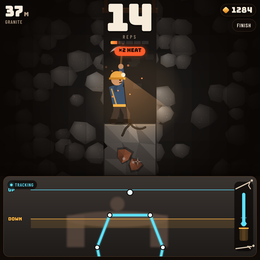
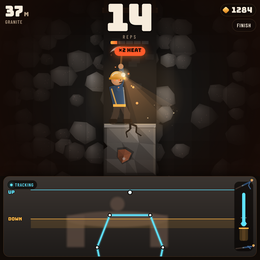
Push Mine: visual polish pass
- Miner: shaded body and helmet, a rim of lamp light, a glowing lamp, a
  silhouette outline, and a smear along the pick's swing.
- Rock: blocks get a lit top face and a chiselled bevel; cracks are straight
  jagged runs that fork, with a lit edge; walls fall into shadow beside the
  shaft; clay and topsoil walls break their grid with larger stones.
- Light and air: a feathered headlamp cone with dust drifting in it, a dark
  fade under the HUD, and a warm edge glow while the heat is up.
- Hits: spark streaks on deep hits, triangular shards thrown away from the
  miner, labels that shrink away instead of fading into mud.
- Demo figures (title, placement cards, tap pad, gauge) are drawn as the
  miner, so the demo reads as "you".
- Camera panel: near-black with a vignette and a warm inner edge, a darker
  video, a thinner skeleton whose joints pulse amber at full depth.
- Screens rise in with a stagger; the coin icon flashes a shine on pickup.

Claude-Session: https://claude.ai/code/session_01NCBcDJ7hGqfLUoT5m655jU

diff --git a/games/push_mine.html b/games/push_mine.html
@@ -37,7 +37,10 @@ body.play #hud{opacity:1}
 .hud-r{position:absolute;right:12px;top:calc(12px + var(--safeT));display:flex;flex-direction:column;align-items:flex-end;gap:8px;pointer-events:auto}
 .coins{display:flex;align-items:center;gap:6px;font-size:24px;line-height:1;padding:6px 10px 6px 8px;border-radius:99px;background:rgba(18,12,8,.66);border:1px solid var(--line)}
 .coins{transition:transform .2s cubic-bezier(.2,1.8,.4,1)} .coins.pop{transform:scale(1.12)}
-.coins i{width:16px;height:16px;border-radius:4px;transform:rotate(45deg);background:linear-gradient(135deg,#fff3c4,var(--amber) 45%,#c06d12);display:inline-block;margin-right:3px}
+.coins i::after{content:"";position:absolute;inset:-4px;background:linear-gradient(100deg,transparent 35%,rgba(255,255,255,.9) 50%,transparent 65%);transform:translateX(-120%)}
+.coins.pop i::after{animation:shine .5s ease-out}
+@keyframes shine{to{transform:translateX(120%)}}
+.coins i{position:relative;overflow:hidden;width:16px;height:16px;border-radius:4px;transform:rotate(45deg);background:linear-gradient(135deg,#fff3c4,var(--amber) 45%,#c06d12);display:inline-block;margin-right:3px}
 .btn-sm{font-size:16px;letter-spacing:.08em;padding:9px 14px;border-radius:99px;background:rgba(18,12,8,.7);border:1px solid var(--line);color:var(--ink);text-transform:uppercase;transition:transform .12s ease,background .2s}
 .btn-sm:active{transform:scale(.94)}
 .hud-c{position:absolute;left:50%;top:calc(4px + var(--safeT));transform:translateX(-50%);text-align:center;line-height:.9}
@@ -60,10 +63,13 @@ body.play #hud{opacity:1}
   border:1px solid transparent;transition:height .45s cubic-bezier(.3,1,.4,1),margin .45s,border-color .45s}
 body.play.tap #cam{height:min(22vh,220px)}
 body.play.cal #cam{height:min(25vh,280px)}
-body.play #cam{height:min(31vh,350px);margin:0 10px calc(10px + var(--safeB));border-color:#5a3f28;box-shadow:inset 0 0 0 3px #2a1d13,0 -6px 24px rgba(0,0,0,.5)}
+body.play #cam{height:min(31vh,350px);margin:0 10px calc(10px + var(--safeB));border-color:#4a3220;background:#070504;box-shadow:inset 0 0 0 3px #1a110b,inset 0 0 30px rgba(255,150,60,.08),0 -6px 24px rgba(0,0,0,.5)}
 #cam::after{content:"";position:absolute;inset:7px;pointer-events:none;border-radius:13px;background:radial-gradient(circle at 0 0,#8a6a4a 2.5px,transparent 3.5px) 0 0/100% 100% no-repeat,radial-gradient(circle at 100% 0,#8a6a4a 2.5px,transparent 3.5px) 0 0/100% 100% no-repeat,radial-gradient(circle at 0 100%,#8a6a4a 2.5px,transparent 3.5px) 0 0/100% 100% no-repeat,radial-gradient(circle at 100% 100%,#8a6a4a 2.5px,transparent 3.5px) 0 0/100% 100% no-repeat}
-#video{position:absolute;inset:0;width:100%;height:100%;object-fit:cover;transform:scaleX(-1);opacity:.48;filter:saturate(.5) contrast(1.05)}
+#video{position:absolute;inset:0;width:100%;height:100%;object-fit:cover;transform:scaleX(-1);opacity:.38;filter:saturate(.35) contrast(1.1) brightness(.85)}
 #ov{position:absolute;inset:0;width:100%;height:100%;display:block}
+#cam::before{content:"";position:absolute;inset:0;pointer-events:none;z-index:1;background:radial-gradient(ellipse at 45% 45%,transparent 55%,rgba(8,5,3,.55))}
+#cam > *{z-index:2}
+#video{z-index:0!important}
 .pill{position:absolute;left:12px;top:12px;font-size:14px;letter-spacing:.08em;text-transform:uppercase;padding:5px 10px 5px 8px;border-radius:99px;
   background:rgba(8,6,4,.72);color:var(--dim);display:flex;align-items:center;gap:7px}
 .pill::before{content:"";width:8px;height:8px;border-radius:50%;background:var(--mute)}
@@ -81,6 +87,9 @@ body.tap #coach{bottom:auto;top:30px;background:none;padding-top:8px}
 /* ---------- overlays ---------- */
 .screen{position:absolute;inset:0;display:flex;flex-direction:column;align-items:center;padding:calc(18px + var(--safeT)) 16px calc(16px + var(--safeB));
   opacity:0;visibility:hidden;transform:translateY(14px);transition:opacity .35s ease,transform .45s cubic-bezier(.3,1,.4,1),visibility 0s .45s;overflow:auto}
+.screen.on .logo,.screen.on .tag,.screen.on .card,.screen.on h2,.screen.on .big,.screen.on .sub,.screen.on .choice,.screen.on #bAgain{animation:rise .6s cubic-bezier(.2,1,.3,1) both}
+.screen.on .tag{animation-delay:.08s}.screen.on .card,.screen.on .sub{animation-delay:.16s}.screen.on .choice,.screen.on .big{animation-delay:.22s}.screen.on #bAgain{animation-delay:.5s}
+@keyframes rise{from{opacity:0;transform:translateY(18px)}to{opacity:1;transform:none}}
 .screen.on{opacity:1;visibility:visible;transform:none;transition:opacity .35s ease,transform .45s cubic-bezier(.3,1,.4,1),visibility 0s}
 #sPlace,#sSummary,#sShop{background:linear-gradient(rgba(14,9,6,.78),rgba(14,9,6,.9))}
 .wrap{width:100%;max-width:440px;display:flex;flex-direction:column;flex:1;min-height:min-content}
@@ -606,11 +615,20 @@ function drawPushup(c, x, y, L, p, col, w) {
     var ang = Math.atan2(dy, dx), k = Math.acos(Math.max(-1, Math.min(1, (a * a + dd * dd - b * b) / (2 * a * dd))));
     var E = [S[0] + Math.cos(ang + k) * a, S[1] + Math.sin(ang + k) * a];
     var dir = [bx / L, -h / L];
-    c.lineCap = 'round'; c.lineJoin = 'round'; c.strokeStyle = col; c.fillStyle = col;
-    c.lineWidth = w; c.beginPath(); c.moveTo(x, y); c.lineTo(S[0], S[1]); c.stroke();
-    c.lineWidth = w * 0.8; c.beginPath(); c.moveTo(S[0], S[1]); c.lineTo(E[0], E[1]); c.lineTo(hand[0], hand[1]); c.stroke();
+    var miner = col === 'miner';
+    c.lineCap = 'round'; c.lineJoin = 'round'; c.strokeStyle = miner ? '#3b2f28' : col; c.fillStyle = col;
+    var Hp = [x + (S[0] - x) * 0.45, y + (S[1] - y) * 0.45];
+    c.lineWidth = w; c.beginPath(); c.moveTo(x, y); c.lineTo(Hp[0], Hp[1]); c.stroke();          // legs
+    c.strokeStyle = miner ? '#2c4a6e' : col; c.lineWidth = miner ? w * 1.35 : w;
+    c.beginPath(); c.moveTo(Hp[0], Hp[1]); c.lineTo(S[0], S[1]); c.stroke();                       // torso
+    if (miner) { c.strokeStyle = '#ffb547'; c.lineWidth = w * 0.35; c.beginPath(); c.moveTo(Hp[0], Hp[1]); c.lineTo(Hp[0] + (S[0] - Hp[0]) * 0.12, Hp[1] + (S[1] - Hp[1]) * 0.12); c.stroke(); }
+    c.strokeStyle = miner ? '#3f6390' : col; c.lineWidth = w * 0.8; c.beginPath(); c.moveTo(S[0], S[1]); c.lineTo(E[0], E[1]); c.lineTo(hand[0], hand[1]); c.stroke();
     var hx = S[0] + dir[0] * L * 0.13, hy = S[1] + dir[1] * L * 0.13 - L * 0.035;
-    c.beginPath(); c.arc(hx, hy, L * 0.075, 0, 7); c.fill();
+    if (col === 'miner') {   // the same miner as in the mine, so the demo is clearly "you"
+        c.fillStyle = '#d99a6c'; c.beginPath(); c.arc(hx, hy, L * 0.072, 0, 7); c.fill();
+        c.fillStyle = '#ffb547'; c.beginPath(); c.arc(hx, hy - L * 0.01, L * 0.082, Math.PI * 1.05, Math.PI * 1.95); c.fill();
+        c.fillStyle = '#fff6d8'; c.beginPath(); c.arc(hx + L * 0.07, hy - L * 0.03, L * 0.02, 0, 7); c.fill();
+    } else { c.beginPath(); c.arc(hx, hy, L * 0.075, 0, 7); c.fill(); }
     return {S: S, head: [hx, hy]};
 }
 function drawPhone(c, x, y, w, h, rot, glow) {
@@ -657,7 +675,8 @@ function resize() {
     var o = $('ov').getBoundingClientRect(); OW = o.width; OH = o.height; ov.width = Math.round(OW * dpr); ov.height = Math.round(OH * dpr);
 }
 var view = {impact: 0, ring: -1, y: save.depth, vy: 0, raise: 0, swing: 0, strikeT: -1, from: 0, hitstop: 0, shake: 0, lean: 0, land: 0, heat: 1, glow: 0};
-var parts = [], floats = [], flyers = [], banner = null;
+var parts = [], floats = [], flyers = [], banner = null, motes = [];
+for (var mi = 0; mi < 26; mi++) motes.push({x: Math.random(), y: Math.random(), s: 0.6 + Math.random() * 1.4, v: 0.2 + Math.random() * 0.6, ph: Math.random() * 6});
 
 function geo() {
     var B = Math.round(Math.min(SW * 0.46, SH * 0.3, 300));
@@ -674,6 +693,13 @@ function drawTile(x, y, T, col, gx, gy, lit) {
     var Lst = Core.layerAt(Math.floor(gy / 3)).style;
     if (Lst && wallStyle(Lst, x, y, T, col, seed, lit)) return;
     var j = function (k) { return (H(seed, k) - 0.5) * T * 0.16; };
+    if (H(seed, 90) < 0.28) {   // a big stone overlapping into the next tile
+        var bx = x + T * (0.1 + H(seed, 91) * 0.3), by = y + T * (0.15 + H(seed, 92) * 0.3), bw = T * (1.2 + H(seed, 93) * 0.4), bh = T * (0.75 + H(seed, 94) * 0.3);
+        ctx.fillStyle = shade(col, 0.42 * lit); ctx.beginPath(); ctx.roundRect(bx - 2, by - 2, bw + 4, bh + 4, T * 0.18); ctx.fill();
+        ctx.fillStyle = shade(col, (0.6 + H(seed, 95) * 0.35) * lit); ctx.beginPath(); ctx.roundRect(bx, by, bw, bh, T * 0.16); ctx.fill();
+        ctx.fillStyle = 'rgba(255,240,220,' + 0.07 * lit + ')'; ctx.beginPath(); ctx.roundRect(bx + 2, by + 2, bw - 4, bh * 0.35, T * 0.12); ctx.fill();
+        return;
+    }
     var m = T * 0.06, base = 0.55 + H(seed, 9) * 0.38;
     ctx.fillStyle = shade(col, base * lit);
     ctx.beginPath();
@@ -767,8 +793,20 @@ function drawBlock(x, y, B, d, lit, dmgFrac, current) {
         ctx.fillStyle = shade(col, k1 * lit); ctx.beginPath(); ctx.moveTo(a[0], a[1]); ctx.lineTo(b[0], b[1]); ctx.lineTo(c2[0], c2[1]); ctx.closePath(); ctx.fill();
         ctx.fillStyle = shade(col, k2 * lit); ctx.beginPath(); ctx.moveTo(a[0], a[1]); ctx.lineTo(c2[0], c2[1]); ctx.lineTo(e[0], e[1]); ctx.closePath(); ctx.fill();
     }
-    // the top edge catches the lamp
-    ctx.fillStyle = 'rgba(255,214,150,' + (0.16 * lit) + ')'; ctx.fillRect(x + 3, y + 3, B - 6, Math.max(2, B * 0.03));
+    // a chiselled bevel: the top and lamp-side edges catch the light, the others fall into shadow
+    var bv = Math.max(3, B * 0.045);
+    ctx.fillStyle = 'rgba(255,220,165,' + (0.22 * lit) + ')';
+    ctx.beginPath(); ctx.moveTo(x + 3, y + 3); ctx.lineTo(x + B - 3, y + 3); ctx.lineTo(x + B - 3 - bv, y + 3 + bv); ctx.lineTo(x + 3 + bv, y + 3 + bv); ctx.fill();
+    ctx.fillStyle = 'rgba(255,220,165,' + (0.1 * lit) + ')';
+    ctx.beginPath(); ctx.moveTo(x + B - 3, y + 3); ctx.lineTo(x + B - 3, y + B - 3); ctx.lineTo(x + B - 3 - bv, y + B - 3 - bv); ctx.lineTo(x + B - 3 - bv, y + 3 + bv); ctx.fill();
+    ctx.fillStyle = 'rgba(0,0,0,' + (0.3 * lit) + ')';
+    ctx.beginPath(); ctx.moveTo(x + 3, y + 3); ctx.lineTo(x + 3 + bv, y + 3 + bv); ctx.lineTo(x + 3 + bv, y + B - 3 - bv); ctx.lineTo(x + 3, y + B - 3); ctx.fill();
+    ctx.beginPath(); ctx.moveTo(x + 3, y + B - 3); ctx.lineTo(x + 3 + bv, y + B - 3 - bv); ctx.lineTo(x + B - 3 - bv, y + B - 3 - bv); ctx.lineTo(x + B - 3, y + B - 3); ctx.fill();
+    // the top face the miner stands on: a lighter lip with a rim of lamp light
+    var lip = Math.max(5, B * 0.07);
+    ctx.fillStyle = shade(col, 1.18 * lit); ctx.fillRect(x + 2, y + 2, B - 4, lip);
+    ctx.fillStyle = 'rgba(255,226,170,' + 0.35 * lit + ')'; ctx.fillRect(x + 2, y + 2, B - 4, 2);
+    ctx.fillStyle = 'rgba(0,0,0,' + 0.35 * lit + ')'; ctx.fillRect(x + 2, y + 2 + lip, B - 4, 2);
     // ore
     var ores = Core.blockOres(save.seed, d);
     ores.forEach(function (o, k) {
@@ -796,17 +834,24 @@ function drawGem(x, y, r, col, lit, rot) {
 }
 function drawCracks(x, y, B, d, f) {
     ctx.save(); ctx.beginPath(); ctx.rect(x, y, B, B); ctx.clip();
-    ctx.strokeStyle = 'rgba(10,6,3,.85)'; ctx.lineCap = 'round'; ctx.lineJoin = 'round';
-    var n = Math.ceil(f * 7);
+    ctx.lineCap = 'butt'; ctx.lineJoin = 'miter';
+    var n = Math.ceil(f * 6), segs = [];
+    // straight jagged runs from where the pick lands, each kinking sharply and sometimes forking
+    var run = function (px, py, a, len, w, k, depth) {
+        var steps = 3 + Math.floor(H(d, 340 + k) * 2);
+        for (var s2 = 0; s2 < steps; s2++) {
+            var kink = (s2 % 2 ? 1 : -1) * (0.35 + H(d, 350 + k * 7 + s2) * 0.35), nx = px + Math.cos(a + kink) * len / steps, ny = py + Math.sin(a + kink) * len / steps;
+            segs.push([px, py, nx, ny, w * (1 - s2 / (steps + 1))]);
+            if (depth < 1 && H(d, 370 + k * 5 + s2) < 0.35) run(nx, ny, a + (H(d, 380 + k + s2) < 0.5 ? -0.9 : 0.9), len * 0.45, w * 0.6, k * 3 + s2 + 11, depth + 1);
+            px = nx; py = ny;
+        }
+    };
     for (var k = 0; k < n; k++) {
-        var px = x + B * (0.5 + (H(d, 300 + k) - 0.5) * 0.25), py = y + 2, a = Math.PI / 2 + (H(d, 310 + k) - 0.5) * 2.2, len = B * (0.25 + 0.55 * f) * (0.6 + H(d, 320 + k) * 0.5);
-        ctx.lineWidth = Math.max(2.5, B * 0.04 * (1 - k / 12));
-        ctx.beginPath(); ctx.moveTo(px, py);
-        var steps = 5;
-        for (var s = 1; s <= steps; s++) { a += (H(d, 330 + k * 9 + s) - 0.5) * 0.9; px += Math.cos(a) * len / steps; py += Math.sin(a) * len / steps; ctx.lineTo(px, py); }
-        ctx.stroke();
-        ctx.save(); ctx.translate(1.2, 1.6); ctx.strokeStyle = 'rgba(255,230,190,.22)'; ctx.lineWidth = Math.max(1, B * 0.008); ctx.stroke(); ctx.restore();
+        var px = x + B * (0.5 + (H(d, 300 + k) - 0.5) * 0.3), a = Math.PI / 2 + (H(d, 310 + k) - 0.5) * 2.0, len = B * (0.3 + 0.55 * f) * (0.6 + H(d, 320 + k) * 0.5);
+        run(px, y + 2, a, len, Math.max(2.5, B * 0.04), k, 0);
     }
+    segs.forEach(function (g) { ctx.strokeStyle = 'rgba(255,230,190,.28)'; ctx.lineWidth = Math.max(1, g[4] * 0.45); ctx.beginPath(); ctx.moveTo(g[0] + 1.5, g[1] + 1.5); ctx.lineTo(g[2] + 1.5, g[3] + 1.5); ctx.stroke(); });
+    segs.forEach(function (g) { ctx.strokeStyle = 'rgba(10,6,3,.9)'; ctx.lineWidth = g[4]; ctx.beginPath(); ctx.moveTo(g[0], g[1]); ctx.lineTo(g[2], g[3]); ctx.stroke(); });
     // chips knocked off the outline
     ctx.fillStyle = '#0d0907';
     var chips = Math.floor(f * 6);
@@ -830,8 +875,11 @@ function drawMiner(x, y, B, raise, lean, tier, glow, land) {
     ctx.beginPath(); ctx.moveTo(14 * u, -4 * u); ctx.lineTo(12 * u + squat * 0.5, hipY + 18 * u - squat * 0.3); ctx.lineTo(6 * u, hipY); ctx.stroke();
     ctx.fillStyle = '#1b130e'; ctx.beginPath(); ctx.roundRect(-20 * u, -8 * u, 16 * u, 8 * u, 3 * u); ctx.roundRect(6 * u, -8 * u, 18 * u, 8 * u, 3 * u); ctx.fill();
     // torso
-    ctx.fillStyle = '#2c4a6e';
-    ctx.beginPath(); ctx.moveTo(-12 * u, hipY + 2 * u); ctx.lineTo(torsoX - 13 * u, shY); ctx.quadraticCurveTo(torsoX + 1 * u, shY - 6 * u, torsoX + 15 * u, shY); ctx.lineTo(12 * u, hipY + 2 * u); ctx.closePath(); ctx.fill();
+    var tg = ctx.createLinearGradient(-14 * u, 0, 16 * u, 0);
+    tg.addColorStop(0, '#1d3350'); tg.addColorStop(0.6, '#2c4a6e'); tg.addColorStop(1, '#4a6f98');   // the lamp side catches light
+    ctx.fillStyle = tg; ctx.strokeStyle = 'rgba(8,5,3,.55)'; ctx.lineWidth = 2 * u;
+    ctx.beginPath(); ctx.moveTo(-12 * u, hipY + 2 * u); ctx.lineTo(torsoX - 13 * u, shY); ctx.quadraticCurveTo(torsoX + 1 * u, shY - 6 * u, torsoX + 15 * u, shY); ctx.lineTo(12 * u, hipY + 2 * u); ctx.closePath(); ctx.stroke(); ctx.fill();
+    ctx.strokeStyle = 'rgba(255,214,150,.35)'; ctx.lineWidth = 1.6 * u; ctx.beginPath(); ctx.moveTo(torsoX + 14 * u, shY + 1 * u); ctx.lineTo(11 * u, hipY); ctx.stroke();
     ctx.fillStyle = '#ffb547'; ctx.fillRect(-12 * u, hipY - 2 * u, 24 * u, 5 * u); // belt
     ctx.strokeStyle = 'rgba(255,181,71,.8)'; ctx.lineWidth = 2.5 * u; ctx.beginPath(); ctx.moveTo(torsoX - 8 * u, shY + 4 * u); ctx.lineTo(-6 * u, hipY - 2 * u); ctx.stroke();
     // arms + pick: shoulder pivot
@@ -843,6 +891,11 @@ function drawMiner(x, y, B, raise, lean, tier, glow, land) {
     var hand2X = handX + Math.cos(a) * 13 * u, hand2Y = handY + Math.sin(a) * 13 * u;
     ctx.strokeStyle = '#223b59'; ctx.lineWidth = 8 * u;
     ctx.beginPath(); ctx.moveTo(sx - 6 * u, sy + 2 * u); ctx.quadraticCurveTo((sx + handX) / 2 - 8 * u, (sy + handY) / 2 + 6 * u, handX, handY); ctx.stroke();
+    if (view.strikeT >= 0 && !reduce) {   // a motion smear along the arc the pick just swept
+        var a0 = -2.35 * view.from + 0.95 * (1 - view.from);
+        ctx.save(); ctx.globalAlpha = 0.28; ctx.fillStyle = 'rgba(255,230,190,.9)';
+        ctx.beginPath(); ctx.moveTo(sx, sy); ctx.arc(sx, sy, 30 * u + 46 * u, a0, a, false); ctx.closePath(); ctx.fill(); ctx.restore();
+    }
     drawPick(ctx, handX, handY, a, 46 * u, tier, glow);
     ctx.strokeStyle = '#2c4a6e'; ctx.lineWidth = 9 * u;
     ctx.beginPath(); ctx.moveTo(sx, sy); ctx.quadraticCurveTo((sx + hand2X) / 2 + 6 * u, (sy + hand2Y) / 2 + 8 * u, hand2X, hand2Y); ctx.stroke();
@@ -850,14 +903,21 @@ function drawMiner(x, y, B, raise, lean, tier, glow, land) {
     ctx.fillStyle = '#d99a6c'; ctx.beginPath(); ctx.arc(hand2X, hand2Y, 5 * u, 0, 7); ctx.fill();
     // head
     
-    ctx.fillStyle = '#d99a6c'; ctx.beginPath(); ctx.arc(hx, hy, 11 * u, 0, 7); ctx.fill();
+    var fg = ctx.createRadialGradient(hx + 4 * u, hy - 2 * u, 2 * u, hx, hy, 12 * u);
+    fg.addColorStop(0, '#f0b98c'); fg.addColorStop(1, '#b8774f');
+    ctx.fillStyle = fg; ctx.strokeStyle = 'rgba(8,5,3,.5)'; ctx.lineWidth = 2 * u; ctx.beginPath(); ctx.arc(hx, hy, 11 * u, 0, 7); ctx.stroke(); ctx.fill();
     ctx.fillStyle = '#2a1a10'; ctx.beginPath(); ctx.arc(hx + 6 * u, hy + 0.5 * u, 1.8 * u, 0, 7); ctx.fill();
     ctx.strokeStyle = '#2a1a10'; ctx.lineWidth = 1.8 * u; ctx.beginPath(); ctx.moveTo(hx + 3 * u, hy - 3.5 * u + raise * 1.2 * u); ctx.lineTo(hx + 9 * u, hy - 2.5 * u); ctx.stroke();
     ctx.beginPath(); ctx.moveTo(hx + 5 * u, hy + 6 * u); ctx.lineTo(hx + 9 * u, hy + 5.5 * u - raise * 1 * u); ctx.stroke();
     // helmet + lamp
-    ctx.fillStyle = '#ffb547'; ctx.beginPath(); ctx.arc(hx, hy - 3 * u, 13 * u, Math.PI, 0); ctx.fill();
+    var hg = ctx.createLinearGradient(0, hy - 16 * u, 0, hy - 3 * u);
+    hg.addColorStop(0, '#ffd27f'); hg.addColorStop(1, '#e8952a');
+    ctx.fillStyle = hg; ctx.strokeStyle = 'rgba(8,5,3,.5)'; ctx.lineWidth = 2 * u; ctx.beginPath(); ctx.arc(hx, hy - 3 * u, 13 * u, Math.PI, 0); ctx.stroke(); ctx.fill();
+    ctx.strokeStyle = 'rgba(255,248,225,.75)'; ctx.lineWidth = 2 * u; ctx.beginPath(); ctx.arc(hx, hy - 3 * u, 9.5 * u, Math.PI * 1.15, Math.PI * 1.55); ctx.stroke();
     ctx.fillStyle = '#d1861f'; ctx.fillRect(hx - 15 * u, hy - 4 * u, 31 * u, 4 * u);
     
+    var lg2 = ctx.createRadialGradient(lx, ly, 0, lx, ly, 14 * u); lg2.addColorStop(0, 'rgba(255,240,200,.85)'); lg2.addColorStop(1, 'rgba(255,200,120,0)');
+    ctx.fillStyle = lg2; ctx.beginPath(); ctx.arc(lx, ly, 14 * u, 0, 7); ctx.fill();
     ctx.fillStyle = '#fff6d8'; ctx.beginPath(); ctx.arc(lx, ly, 4 * u, 0, 7); ctx.fill();
     ctx.restore();
     return {lamp: [x + lx, y + ly], tip: [x + handX + Math.cos(a) * 46 * u, y + handY + Math.sin(a) * 46 * u]};
@@ -909,6 +969,10 @@ function drawScene(now, dt) {
             ctx.fillStyle = shade(col, 1.35); ctx.fillRect(0, y - 1, SW, 2);
         }
     }
+    // the walls fall into shadow where they meet the shaft
+    var ao = B * 0.22, aoL = ctx.createLinearGradient(shaftL - ao, 0, shaftL, 0), aoR = ctx.createLinearGradient(shaftR + ao, 0, shaftR, 0);
+    aoL.addColorStop(0, 'rgba(0,0,0,0)'); aoL.addColorStop(1, 'rgba(0,0,0,.5)'); aoR.addColorStop(0, 'rgba(0,0,0,0)'); aoR.addColorStop(1, 'rgba(0,0,0,.5)');
+    var aoTop = Math.max(0, top); ctx.fillStyle = aoL; ctx.fillRect(shaftL - ao, aoTop, ao, bot - aoTop); ctx.fillStyle = aoR; ctx.fillRect(shaftR, aoTop, ao, bot - aoTop);
     // surface lip
     if (top < B) {
         ctx.fillStyle = '#2d4a26'; ctx.fillRect(-10, -T * 0.18, SW + 20, T * 0.22);
@@ -953,7 +1017,7 @@ function drawScene(now, dt) {
     // the shockwave where the pick lands
     if (view.ring >= 0 && view.ring < 1) {
         var rr = ease(view.ring); ctx.strokeStyle = 'rgba(255,214,150,' + (1 - rr) * 0.8 + ')'; ctx.lineWidth = 6 * (1 - rr) + 1;
-        ctx.beginPath(); ctx.ellipse(g.cx + B * 0.12, depthNow * B + 2, B * (0.15 + rr * 0.9), B * (0.05 + rr * 0.25), 0, Math.PI, 0); ctx.stroke();
+        ctx.beginPath(); ctx.ellipse(g.cx + B * 0.12, view.ringD * B + 2, B * (0.15 + rr * 0.9), B * (0.05 + rr * 0.25), 0, Math.PI, 0); ctx.stroke();
     }
     // particles in world space
     drawParts(dt);
@@ -969,9 +1033,32 @@ function drawScene(now, dt) {
     ctx.globalCompositeOperation = 'lighter';
     var beam = ctx.createRadialGradient(lampX, lampY, 2, lampX, lampY, B * 1.3);
     beam.addColorStop(0, view.glow > 0.1 ? 'rgba(255,' + Math.round(200 - 80 * Math.min(1, view.glow)) + ',90,.36)' : 'rgba(255,200,120,.30)'); beam.addColorStop(1, 'rgba(255,170,80,0)');
-    ctx.fillStyle = beam; ctx.beginPath(); ctx.moveTo(lampX, lampY);
-    var ba = 1.05 + view.lean * 0.15; ctx.arc(lampX, lampY, B * 1.3, ba - 0.42, ba + 0.42); ctx.closePath(); ctx.fill();
+    var ba = 1.05 + view.lean * 0.15;
+    ctx.fillStyle = beam;
+    [[0.5, 0.45], [0.36, 0.35], [0.24, 0.3]].forEach(function (cn) {   // nested cones: a soft edge, a bright core
+        ctx.globalAlpha = cn[1]; ctx.beginPath(); ctx.moveTo(lampX, lampY); ctx.arc(lampX, lampY, B * 1.35, ba - cn[0], ba + cn[0]); ctx.closePath(); ctx.fill();
+    });
+    ctx.globalAlpha = 1; ctx.beginPath(); ctx.moveTo(lampX, lampY); ctx.arc(lampX, lampY, B * 1.35, ba - 0.5, ba + 0.5); ctx.closePath();
+    // dust hanging in the beam: only visible where the lamp falls
+    if (!reduce && view.y > 0.5) {
+        ctx.save(); ctx.clip();
+        var tt = now / 1000;
+        motes.forEach(function (m) {
+            var mx2 = lampX + (m.x * 1.3 - 0.15) * B * 1.2 + Math.sin(tt * m.v + m.ph) * 8, my2 = lampY + ((m.y + tt * 0.03 * m.v) % 1) * B * 1.3;
+            ctx.fillStyle = 'rgba(255,225,170,' + (0.25 + 0.25 * Math.sin(tt * 2 * m.v + m.ph)) + ')'; ctx.beginPath(); ctx.arc(mx2, my2, m.s, 0, 7); ctx.fill();
+        });
+        ctx.restore();
+    }
     ctx.globalCompositeOperation = 'source-over';
+    // a dark fade under the HUD, and a warm edge glow while the heat is up
+    var tf = ctx.createLinearGradient(0, 0, 0, Math.min(170, SH * 0.25)); tf.addColorStop(0, 'rgba(10,6,4,.7)'); tf.addColorStop(1, 'rgba(10,6,4,0)');
+    ctx.fillStyle = tf; ctx.fillRect(0, 0, SW, Math.min(170, SH * 0.25));
+    if (view.glow > 0.05) {
+        var pulse = reduce ? 1 : 0.8 + 0.2 * Math.sin(now / 260);
+        var hv = ctx.createRadialGradient(SW / 2, SH / 2, Math.min(SW, SH) * 0.35, SW / 2, SH / 2, Math.max(SW, SH) * 0.75);
+        hv.addColorStop(0, 'rgba(255,90,42,0)'); hv.addColorStop(1, 'rgba(255,90,42,' + (0.28 * Math.min(1, view.glow) * pulse) + ')');
+        ctx.fillStyle = hv; ctx.fillRect(0, 0, SW, SH);
+    }
     drawFloats(dt, camY, shx, shy);
     drawFlyers(dt);
     drawBanner(dt);
@@ -985,11 +1072,15 @@ function drawParts(dt) {
         p.vy += (p.g || 1400) * dt; p.x += p.vx * dt; p.y += p.vy * dt; p.rot += p.vr * dt;
         var a = Math.min(1, p.life / (p.fade || 0.3));
         ctx.globalAlpha = a;
-        if (p.kind === 'ember') { ctx.fillStyle = p.c; ctx.beginPath(); ctx.arc(p.x, p.y, p.s, 0, 7); ctx.fill(); }
+        if (p.kind === 'spark') { ctx.strokeStyle = p.c; ctx.lineWidth = p.s; ctx.lineCap = 'round'; ctx.beginPath(); ctx.moveTo(p.x, p.y); ctx.lineTo(p.x - p.vx * 0.035, p.y - p.vy * 0.035); ctx.stroke(); }
+        else if (p.kind === 'ember') { ctx.fillStyle = p.c; ctx.beginPath(); ctx.arc(p.x, p.y, p.s, 0, 7); ctx.fill(); }
         else if (p.kind === 'dust') { ctx.fillStyle = p.c; ctx.beginPath(); ctx.arc(p.x, p.y, p.s * (1.6 - a * 0.6), 0, 7); ctx.fill(); }
         else {
             ctx.save(); ctx.translate(p.x, p.y); ctx.rotate(p.rot); ctx.fillStyle = p.c;
-            ctx.beginPath(); ctx.moveTo(-p.s, -p.s * 0.6); ctx.lineTo(p.s * 0.8, -p.s); ctx.lineTo(p.s, p.s * 0.7); ctx.lineTo(-p.s * 0.6, p.s); ctx.fill();
+            ctx.beginPath();
+            if (p.tri) { ctx.moveTo(-p.s, p.s * 0.7); ctx.lineTo(p.s * 0.2, -p.s * 1.1); ctx.lineTo(p.s, p.s * 0.5); }
+            else { ctx.moveTo(-p.s, -p.s * 0.6); ctx.lineTo(p.s * 0.8, -p.s); ctx.lineTo(p.s, p.s * 0.7); ctx.lineTo(-p.s * 0.6, p.s); }
+            ctx.fill(); ctx.strokeStyle = 'rgba(0,0,0,.45)'; ctx.lineWidth = 1.2; ctx.stroke();
             ctx.strokeStyle = 'rgba(255,226,180,.55)'; ctx.lineWidth = 1.5; ctx.beginPath(); ctx.moveTo(-p.s, -p.s * 0.6); ctx.lineTo(p.s * 0.8, -p.s); ctx.stroke(); ctx.restore();
         }
     }
@@ -998,8 +1089,8 @@ function drawParts(dt) {
 function burst(x, y, n, col, speed, size, kind) {
     if (reduce) n = Math.ceil(n / 3);
     for (var i = 0; i < n; i++) {
-        var a = -Math.PI / 2 + (Math.random() - 0.5) * 2.6, v = speed * (0.4 + Math.random() * 0.8);
-        parts.push({x: x, y: y, vx: Math.cos(a) * v, vy: Math.sin(a) * v, s: size * (0.5 + Math.random() * 0.8), c: col, life: 0.5 + Math.random() * 0.5, rot: Math.random() * 6, vr: (Math.random() - 0.5) * 14, kind: kind || 'chunk', g: kind === 'dust' ? -40 : kind === 'ember' ? -200 : 1600, fade: kind === 'dust' ? 0.6 : 0.3});
+        var a = (kind === 'dust' || kind === 'ember') ? -Math.PI / 2 + (Math.random() - 0.5) * 2.6 : -Math.PI * 0.3 + (Math.random() - 0.5) * 1.9, v = speed * (0.4 + Math.random() * 0.8);
+        parts.push({x: x, y: y, vx: Math.cos(a) * v, vy: Math.sin(a) * v, s: size * (0.5 + Math.random() * 0.8), c: col, life: 0.5 + Math.random() * 0.5, rot: Math.random() * 6, vr: (Math.random() - 0.5) * 14, kind: kind || 'chunk', tri: Math.random() < 0.5, g: kind === 'dust' ? -40 : kind === 'ember' ? -200 : kind === 'spark' ? 900 : 1600, fade: kind === 'dust' ? 0.6 : 0.3});
     }
 }
 // floats are pinned to the screen where they appear, so the camera dropping a metre never drags them into the HUD
@@ -1010,7 +1101,7 @@ function drawFloats(dt, camY, shx, shy) {
         var f = floats[i]; f.age += dt; if (f.age > f.life) { floats.splice(i, 1); continue; }
         if (f.age < 0) continue;
         var k = f.age / f.life, sc2 = reduce ? 1 : (k < 0.15 ? 0.6 + 0.6 * ease(k / 0.15) : 1.2 - 0.2 * ease((k - 0.15) / 0.3));
-        ctx.globalAlpha = k > 0.7 ? (1 - k) / 0.3 : 1;
+        var out = k > 0.75 ? (k - 0.75) / 0.25 : 0; ctx.globalAlpha = out > 0.6 ? (1 - out) / 0.4 : 1; sc2 *= 1 - 0.45 * easeIn(out);
         ctx.save(); ctx.translate(f.x + shx, f.y - ease(k) * 40 + shy); ctx.scale(sc2, sc2);
         ctx.font = f.s + 'px Bungee'; ctx.lineWidth = 6; ctx.strokeStyle = 'rgba(12,7,4,.9)'; ctx.strokeText(f.t, 0, 0);
         ctx.fillStyle = f.c; ctx.fillText(f.t, 0, 0); ctx.restore();
@@ -1103,13 +1194,13 @@ function drawFrontGuides(now) {
         octx.restore();
     }
     if (lm) {
-        octx.save(); octx.beginPath(); octx.rect(0, 0, OW - 62, OH); octx.clip(); octx.strokeStyle = '#5fe3ff'; octx.lineWidth = 7; octx.lineCap = 'round'; octx.shadowColor = '#5fe3ff'; octx.shadowBlur = 10;
+        octx.save(); octx.beginPath(); octx.rect(0, 0, OW - 62, OH); octx.clip(); octx.strokeStyle = '#5fe3ff'; octx.lineWidth = 4.5; octx.lineCap = 'round'; octx.shadowColor = '#5fe3ff'; octx.shadowBlur = 10;
         EDGES.forEach(function (e) {
             var a = lm[e[0]], b = lm[e[1]]; if (!a || !b || a.visibility < 0.5 || b.visibility < 0.5) return;
             var p = vmap(a.x, a.y), q = vmap(b.x, b.y); octx.beginPath(); octx.moveTo(p[0], p[1]); octx.lineTo(q[0], q[1]); octx.stroke();
         });
         octx.shadowBlur = 0; octx.fillStyle = '#e8fbff'; octx.strokeStyle = '#0b0806'; octx.lineWidth = 2.5;
-        [0, 11, 12, 13, 14, 15, 16].forEach(function (i) { var a = lm[i]; if (!a || a.visibility < 0.5) return; var p = vmap(a.x, a.y); octx.beginPath(); octx.arc(p[0], p[1], i === 0 ? 9 : 7, 0, 7); octx.fill(); octx.stroke(); });
+        [0, 11, 12, 13, 14, 15, 16].forEach(function (i) { var a = lm[i]; if (!a || a.visibility < 0.5) return; var p = vmap(a.x, a.y), deep = D && D.cal === 'done' && D.depth >= Core.PERFECT, rj = (i === 0 ? 6.5 : 5) * (deep && !reduce ? 1.15 + 0.15 * Math.sin(now / 80) : 1); octx.fillStyle = deep ? '#ffd27f' : '#e8fbff'; octx.beginPath(); octx.arc(p[0], p[1], rj, 0, 7); octx.fill(); octx.stroke(); });
         octx.restore();
     }
 }
@@ -1142,7 +1233,7 @@ function drawTapPad(now) {
     octx.fillStyle = '#3a2a1d'; octx.fillRect(10, y, OW - 86, 3);
     octx.fillStyle = 'rgba(0,0,0,.35)'; octx.beginPath(); octx.ellipse(x + L * 0.5, y + 4, L * 0.55, 6, 0, 0, 7); octx.fill();
     octx.save(); octx.shadowColor = tap.down ? 'rgba(255,181,71,.7)' : 'rgba(0,0,0,0)'; octx.shadowBlur = 18;
-    drawPushup(octx, x, y, L, p, tap.down ? '#ffb547' : '#d8c6ae', Math.max(6, L * 0.07)); octx.restore();
+    drawPushup(octx, x, y, L, p, 'miner', Math.max(6, L * 0.07)); octx.restore();
 }
 function drawGauge(x, y, w, h, D, now) {
     var depth = D ? Math.max(-0.1, Math.min(1.2, D.depth)) : 0, live = D && D.cal === 'done';
@@ -1163,8 +1254,8 @@ function drawGauge(x, y, w, h, D, now) {
     if (D && (D.phase === 'down' || D.phase === 'rising') && live) { octx.fillStyle = 'rgba(255,255,255,.7)'; octx.fillRect(tx - 10, Y(D.maxD) - 1, 20, 2); }
     octx.beginPath(); octx.arc(tx, Y(depth), hit ? 10 : 8, 0, 7); octx.fillStyle = hit ? '#ffb547' : '#5fe3ff'; octx.fill();
     // little pose pictograms at the ends
-    drawPushup(octx, x + 5, y + 22, w - 10, 0, '#d8c6ae', 3.5);
-    drawPushup(octx, x + 5, y + h - 8, w - 10, 1, depth >= Core.PERFECT ? '#ffb547' : '#d8c6ae', 3.5);
+    drawPushup(octx, x + 5, y + 22, w - 10, 0, 'miner', 3.5);
+    drawPushup(octx, x + 5, y + h - 8, w - 10, 1, 'miner', 3.5);
 }
 
 /* ================= illustrations ================= */
@@ -1176,12 +1267,12 @@ function drawIllustration(cv, kind, t) {
     c.fillStyle = '#2a1e15'; c.fillRect(0, fy, W, 3);
     var cyc = (t % 2.4) / 2.4, p = cyc < 0.45 ? ease(cyc / 0.45) : cyc < 0.55 ? 1 : cyc < 0.8 ? 1 - ease((cyc - 0.55) / 0.25) : 0;
     if (kind === 'front') {
-        var r = drawPushup(c, W * 0.06, fy, W * 0.62, p, '#f7ecdc', 9);
+        var r = drawPushup(c, W * 0.06, fy, W * 0.62, p, 'miner', 10);
         drawPhone(c, W * 0.9, fy - 22, 18, 36, -0.22, '#5fe3ff');
         c.strokeStyle = 'rgba(95,227,255,.35)'; c.lineWidth = 2; c.setLineDash([5, 5]);
         c.beginPath(); c.moveTo(W * 0.88, fy - 30); c.lineTo(r.head[0] + 8, r.head[1]); c.stroke(); c.setLineDash([]);
     } else {
-        var r2 = drawPushup(c, W * 0.06, fy, W * 0.78, p, '#f7ecdc', 9);
+        var r2 = drawPushup(c, W * 0.06, fy, W * 0.78, p, 'miner', 10);
         drawPhone(c, r2.head[0] - 6, fy - 4, 40, 9, 0, '#5fe3ff');
         c.strokeStyle = 'rgba(95,227,255,.35)'; c.lineWidth = 2; c.setLineDash([5, 5]);
         c.beginPath(); c.moveTo(r2.head[0] - 6, fy - 10); c.lineTo(r2.head[0], r2.head[1] + 14); c.stroke(); c.setLineDash([]);
@@ -1315,9 +1406,10 @@ function strike(q, t) {
             if (grade === 'shallow') { sfx.chip(); }
             view.shake = reduce ? 0 : (big ? 14 : grade === 'good' ? 7 : 2) * (e.heat > 1 ? 1.25 : 1);
             view.hitstop = big ? 0.075 : 0.04;
-            if (grade !== 'shallow') { view.impact = big ? 1 : 0.7; view.ring = 0; }
+            if (grade !== 'shallow') { view.impact = big ? 1 : 0.7; view.ring = 0; view.ringD = depthBefore; }
             burst(hitX, hitY, big ? 26 : grade === 'good' ? 14 : 4, shade(L.rock, 1.1), big ? 620 : 440, B * 0.065);
             burst(hitX, hitY, big ? 10 : 4, '#ffe2a8', 600, 2, 'ember');
+            if (big) burst(hitX, hitY, 14, '#fff1c8', 900, 2.2, 'spark');
             if (grade === 'shallow') { floatText('LOWER!', '#ff5a2a', 30, g.cx, hitY - B * 1.55); hint('Go lower', 'Reach the amber line on the right for a full hit.', 'warn', 2); }
             else {
                 floatText(big ? 'DEEP ×1.5' : 'GOOD', big ? '#ffb547' : '#f7ecdc', big ? 34 : 26, g.cx, hitY - B * 1.55);
@@ -1330,7 +1422,7 @@ function strike(q, t) {
             var by = e.depth * B;
             setTimeout(function () { sfx.thud(); }, 60);
             burst(g.cx, by + B * 0.5, reduce ? 6 : 26, shade(Core.layerAt(e.depth).rock, 0.95), 700, B * 0.09);
-            burst(g.cx, by + B * 0.6, 8, 'rgba(180,150,120,.35)', 120, B * 0.12, 'dust');
+            burst(g.cx, by + B * 0.6, 10, 'rgba(180,150,120,.16)', 160, B * 0.06, 'dust');
             var sr = sc.getBoundingClientRect(), camY = view.y * B - g.floor;
             e.ores.forEach(function (o, k) {
                 var gx = g.cx - B / 2 + B * (0.25 + H(e.depth, 200 + k) * 0.5), gy = by + B * (0.35 + H(e.depth, 210 + k) * 0.45) - camY;
@@ -1449,7 +1541,7 @@ function frame(ts) {
         var cyc = (demoT % 2.4) / 2.4, p = cyc < 0.45 ? ease(cyc / 0.45) : cyc < 0.55 ? 1 : cyc < 0.8 ? 1 - ease((cyc - 0.55) / 0.25) : 0;
         var dc = $('demoC'), c = dc.getContext('2d');
         c.clearRect(0, 0, dc.width, dc.height); c.fillStyle = '#3a2a1d'; c.fillRect(0, dc.height - 8, dc.width, 3);
-        drawPushup(c, 8, dc.height - 8, dc.width * 0.62, p, '#f7ecdc', 8);
+        drawPushup(c, 8, dc.height - 8, dc.width * 0.62, p, 'miner', 9);
         var phaseUp = cyc >= 0.55;
         if (phaseUp && !game.demoStruck && cyc > 0.62) { game.demoStruck = true; view.strikeT = 0; view.from = view.raise; view.grade = 'good'; var g = geo(); burst(g.cx + g.B * 0.12, save.depth * g.B + 4, 6, shade(Core.layerAt(save.depth).rock, 1.1), 360, g.B * 0.04); view.shake = reduce ? 0 : 3; }
         if (cyc < 0.1) game.demoStruck = false;
